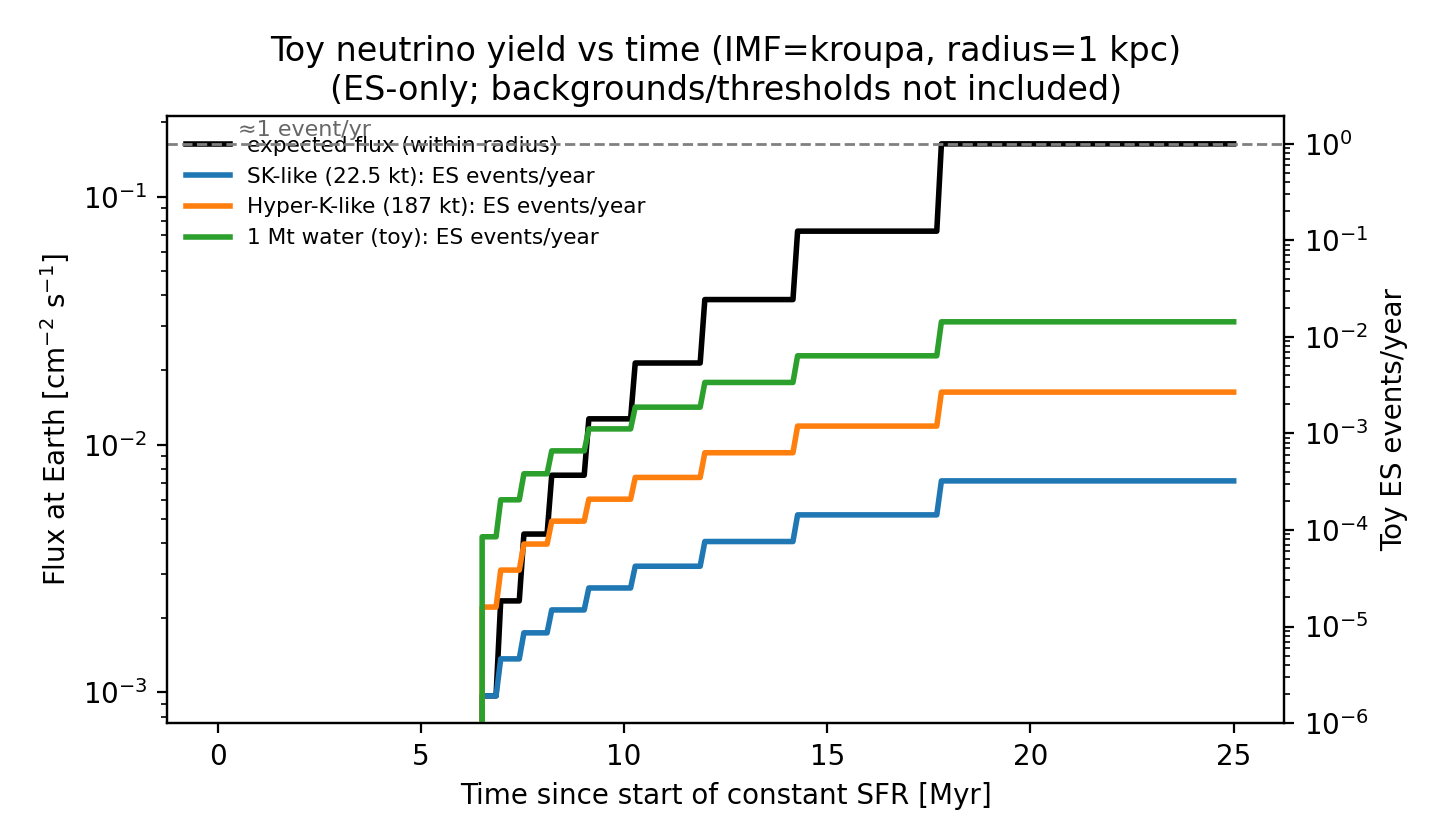
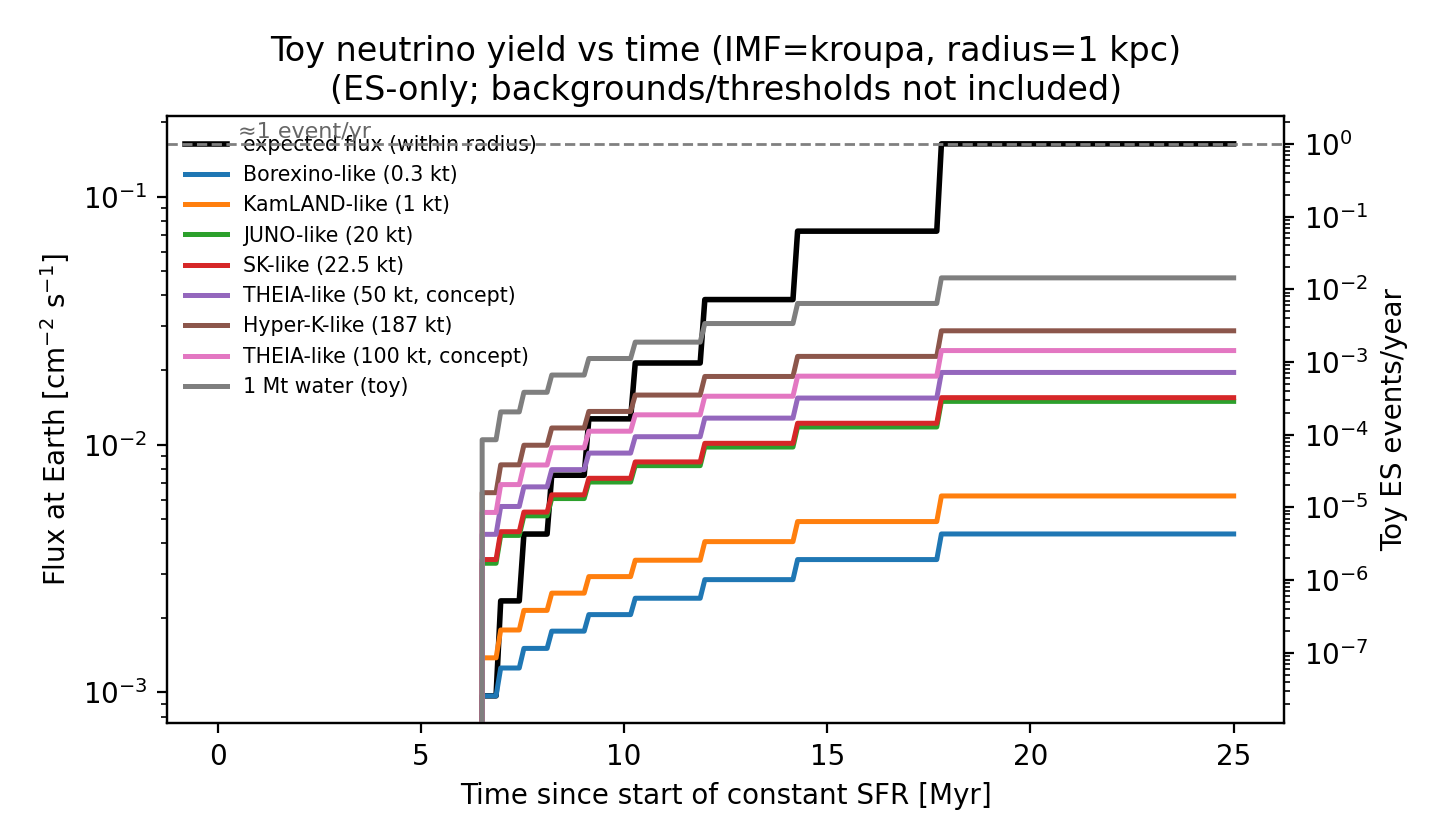
Add more detector presets and reference-distance rates

diff --git a/run_pipeline.py b/run_pipeline.py
@@ -109,6 +109,7 @@ class Config:
     alpha: float = 2.0
     detector_kton: float = 22.5
     inv_d2_samples: int = 100_000
+    reference_distance_pc: float = 200.0
 
     # Optional: isochrone file for the HR plot (included in this repo)
     isochrone_dat: Path = Path("data/parsec/isochrones/parsec_cmd39_v1p2s_Z0p0152_logAge7p0.dat")
@@ -173,8 +174,13 @@ def main() -> None:
     if CFG.make_detectability_table:
         out_det_csv = CFG.out_dir / "detectability_imf.csv"
         dets = detector_presets()
-        # Keep the first detector label but use the configured fiducial mass.
-        dets = [dets[0].__class__(name=f"SK-like ({CFG.detector_kton:g} kt)", fiducial_mass_kton=CFG.detector_kton), *dets[1:]]
+        # Override the SK-like mass from CONFIG while keeping the rest of the preset list.
+        dets = [
+            d.__class__(name=f"SK-like ({CFG.detector_kton:g} kt)", fiducial_mass_kton=CFG.detector_kton)
+            if d.name.startswith("SK-like")
+            else d
+            for d in dets
+        ]
 
         import csv
 
@@ -194,6 +200,7 @@ def main() -> None:
                 mean_energy_mev=CFG.mean_energy_mev,
                 alpha=CFG.alpha,
                 detector_list=dets,
+                reference_distance_pc=CFG.reference_distance_pc,
             )
             rows.append(r)
 
@@ -207,7 +214,10 @@ def main() -> None:
                 "n_cburn_rsg_mw",
                 "n_cburn_rsg_within",
                 "flux_within_cm2_s",
+                "reference_distance_pc",
+                "flux_one_star_at_refdist_cm2_s",
                 *[f"events_per_year__{d.name}" for d in dets],
+                *[f"events_per_year__one_star_at_refdist__{d.name}" for d in dets],
             ]
             w = csv.DictWriter(f, fieldnames=fieldnames)
             w.writeheader()
@@ -220,9 +230,12 @@ def main() -> None:
                     "n_cburn_rsg_mw": f"{r.n_cburn_rsg_mw:.6g}",
                     "n_cburn_rsg_within": f"{r.n_cburn_rsg_within:.6g}",
                     "flux_within_cm2_s": f"{r.flux_within_cm2_s:.6g}",
+                    "reference_distance_pc": f"{CFG.reference_distance_pc:.6g}",
+                    "flux_one_star_at_refdist_cm2_s": f"{r.flux_one_star_at_refdist_cm2_s:.6g}",
                 }
                 for d in dets:
                     row[f"events_per_year__{d.name}"] = f"{r.events_per_year_by_detector[d.name]:.6g}"
+                    row[f"events_per_year__one_star_at_refdist__{d.name}"] = f"{r.events_per_year_one_star_at_refdist[d.name]:.6g}"
                 w.writerow(row)
 
         print(f"Saved: {out_det_csv}")
@@ -238,8 +251,8 @@ def main() -> None:
 
             out_det_png = CFG.out_dir / "detectability_imf_events.png"
             xs = np.arange(len(CFG.imfs))
-            width = 0.22
-            fig, ax = plt.subplots(figsize=(8.4, 4.6))
+            width = min(0.16, 0.8 / max(1, len(dets)))
+            fig, ax = plt.subplots(figsize=(9.6, 4.8))
 
             for j, d in enumerate(dets):
                 y = [r.events_per_year_by_detector[d.name] for r in rows]
@@ -252,7 +265,7 @@ def main() -> None:
             ax.axhline(1.0, color="0.5", lw=1.0, ls="--")
             ax.text(xs[0] - 0.4, 1.15, "≈1 event/yr", color="0.4", fontsize=8)
             ax.set_title(f"Detectability vs IMF (within {CFG.radius_kpc:g} kpc)")
-            ax.legend(frameon=False, fontsize=8)
+            ax.legend(frameon=False, fontsize=7, ncol=2)
             fig.tight_layout()
             fig.savefig(out_det_png, dpi=200)
             plt.close(fig)

diff --git a/neutrino_project/detectability.py b/neutrino_project/detectability.py
@@ -6,7 +6,7 @@ from pathlib import Path
 import numpy as np
 
 from .galaxy import MWYoungSFParams, estimate_within_probability, sample_mw_young_xy
-from .neutrinos import Detector, NeutrinoSpectrumModel, estimate_es_events_per_year
+from .neutrinos import Detector, NeutrinoSpectrumModel, estimate_es_events_per_year, flux_from_luminosity
 from .population import expected_counts_vs_time
 
 
@@ -31,9 +31,15 @@ def detector_presets() -> list[DetectorPreset]:
     - This is *not* detector modeling. It's just target scaling for ES.
     - Backgrounds, thresholds, efficiencies are not included.
     """
+    # Masses are water-equivalent fiducial masses for an ES-only toy estimate.
     return [
+        DetectorPreset(name="Borexino-like (0.3 kt)", fiducial_mass_kton=0.3),
+        DetectorPreset(name="KamLAND-like (1 kt)", fiducial_mass_kton=1.0),
+        DetectorPreset(name="JUNO-like (20 kt)", fiducial_mass_kton=20.0),
         DetectorPreset(name="SK-like (22.5 kt)", fiducial_mass_kton=22.5),
+        DetectorPreset(name="THEIA-like (50 kt, concept)", fiducial_mass_kton=50.0),
         DetectorPreset(name="Hyper-K-like (187 kt)", fiducial_mass_kton=187.0),
+        DetectorPreset(name="THEIA-like (100 kt, concept)", fiducial_mass_kton=100.0),
         DetectorPreset(name="1 Mt water (toy)", fiducial_mass_kton=1000.0),
     ]
 
@@ -99,6 +105,8 @@ class DetectabilityAtTime:
     n_cburn_rsg_within: float
     flux_within_cm2_s: float
     events_per_year_by_detector: dict[str, float]
+    flux_one_star_at_refdist_cm2_s: float
+    events_per_year_one_star_at_refdist: dict[str, float]
 
 
 def estimate_detectability_at_time(
@@ -117,6 +125,7 @@ def estimate_detectability_at_time(
     alpha: float = 2.0,
     detector_list: list[DetectorPreset] | None = None,
     flavor: str = "nue",
+    reference_distance_pc: float = 200.0,
 ) -> DetectabilityAtTime:
     """
     Pipeline:
@@ -177,6 +186,24 @@ def estimate_detectability_at_time(
             )
         )
 
+    # Per-star reference (useful for comparing with neutrinos.pdf's ~200 pc example).
+    flux_one = flux_from_luminosity(
+        lnu_erg_s=lnu_per_star_erg_s,
+        mean_energy_mev=mean_energy_mev,
+        distance_pc=reference_distance_pc,
+    )
+    events_one = {}
+    for preset in dets:
+        det = preset.to_detector()
+        events_one[det.name] = float(
+            estimate_es_events_per_year(
+                flux_at_earth_cm2_s=float(flux_one),
+                detector=det,
+                spectrum=spec,
+                flavor=flavor,
+            )
+        )
+
     return DetectabilityAtTime(
         t_myr=float(t_obs_myr),
         p_within=float(p_within),
@@ -184,4 +211,6 @@ def estimate_detectability_at_time(
         n_cburn_rsg_within=n_within,
         flux_within_cm2_s=float(flux),
         events_per_year_by_detector=events,
+        flux_one_star_at_refdist_cm2_s=float(flux_one),
+        events_per_year_one_star_at_refdist=events_one,
     )

diff --git a/neutrino_project/plots.py b/neutrino_project/plots.py
@@ -434,12 +434,13 @@ def plot_neutrino_yield_vs_time(
 
     spec = NeutrinoSpectrumModel.alpha_fit(mean_energy_mev=mean_energy_mev, alpha=alpha)
 
-    # Compare a few detector scales (toy, ES-only).
+    # Compare several detector scales (toy, ES-only).
     detectors = detector_presets()
-    # Override the SK-like mass from the function argument while keeping the same label format.
     detectors = [
-        detectors[0].__class__(name=f"SK-like ({detector_kton:g} kt)", fiducial_mass_kton=float(detector_kton)),
-        *detectors[1:],
+        d.__class__(name=f"SK-like ({detector_kton:g} kt)", fiducial_mass_kton=float(detector_kton))
+        if d.name.startswith("SK-like")
+        else d
+        for d in detectors
     ]
     events_by_det = {
         det.to_detector().name: np.array(
@@ -466,9 +467,18 @@ def plot_neutrino_yield_vs_time(
     ax1.set_yscale("log")
 
     ax2 = ax1.twinx()
-    colors = ["#1f77b4", "#ff7f0e", "#2ca02c"]
+    colors = [
+        "#1f77b4",
+        "#ff7f0e",
+        "#2ca02c",
+        "#d62728",
+        "#9467bd",
+        "#8c564b",
+        "#e377c2",
+        "#7f7f7f",
+    ]
     for (name, ev), c in zip(events_by_det.items(), colors, strict=False):
-        ax2.plot(t, ev, color=c, lw=2, label=f"{name}: ES events/year")
+        ax2.plot(t, ev, color=c, lw=1.8, label=f"{name}")
     ax2.axhline(1.0, color="0.5", lw=1.0, ls="--")
     ax2.text(t_max_myr * 0.02, 1.2, "≈1 event/yr", color="0.4", fontsize=8)
     ax2.set_ylabel("Toy ES events/year")
@@ -484,7 +494,7 @@ def plot_neutrino_yield_vs_time(
         l, lab = ax.get_legend_handles_labels()
         lines += l
         labels += lab
-    ax1.legend(lines, labels, frameon=False, fontsize=7.8, loc="upper left")
+    ax1.legend(lines, labels, frameon=False, fontsize=7.4, loc="upper left")
     fig.tight_layout()
     fig.savefig(out_png, dpi=200)
     plt.close(fig)

diff --git a/README.md b/README.md
@@ -95,6 +95,8 @@ This project computes a **signal-only** (background-free) elastic-scattering est
 
 Important: **backgrounds, thresholds, efficiencies are not included**, so these event rates should only be used for scaling comparisons (e.g. between IMFs or detector masses).
 
+The detector list is intentionally “hopeful”: it includes concepts like THEIA-like WbLS detector masses. In this toy ES-only model, larger fiducial mass always increases signal linearly, but real detectability is usually background-limited at sub-MeV energies.
+
 ## Data files
 
 The repo includes small precomputed phase-window tables:
